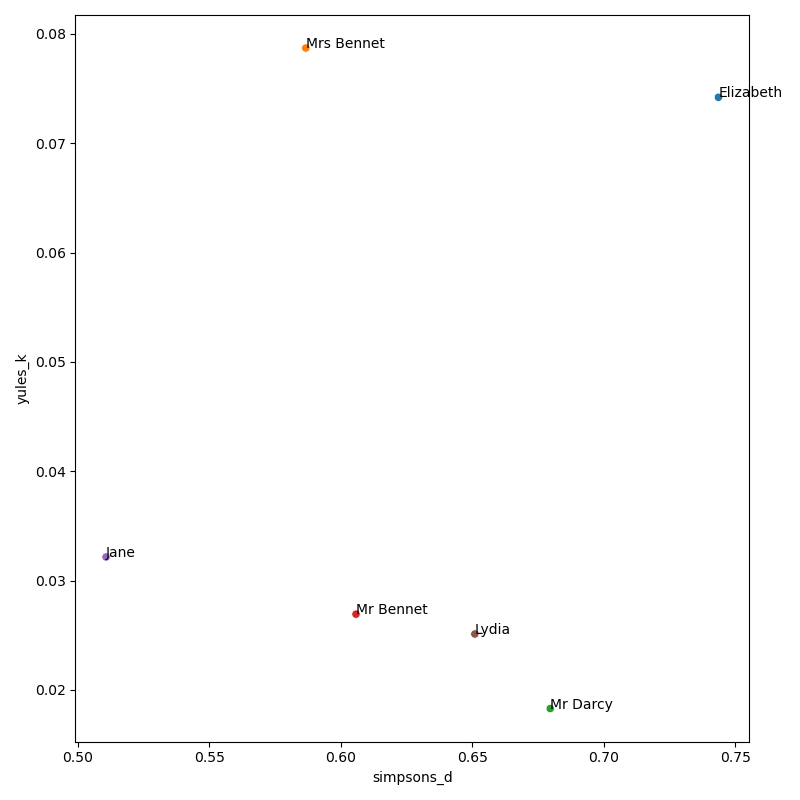
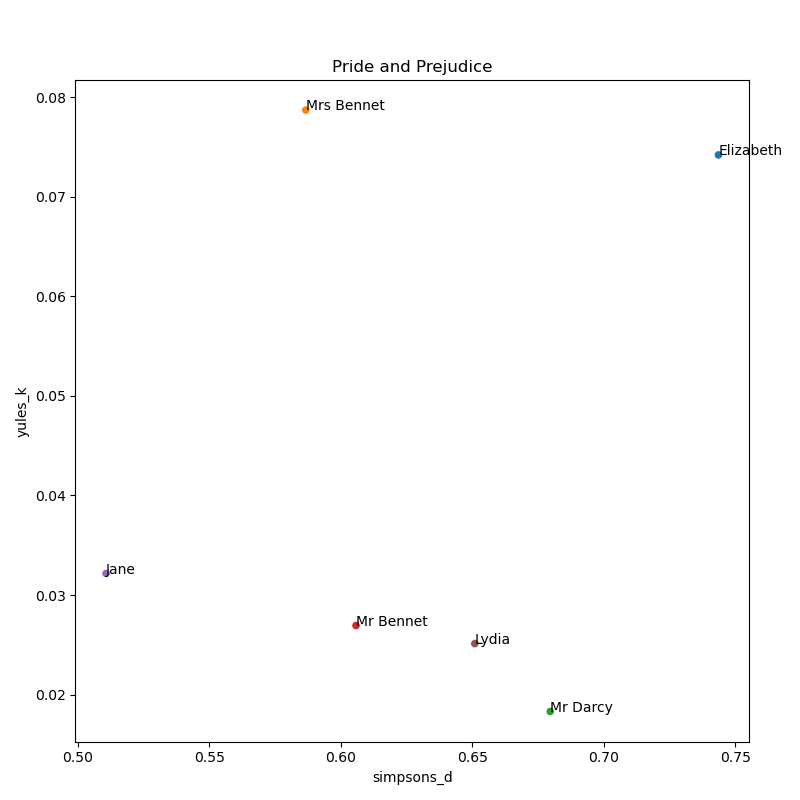
Updated visuals

diff --git a/code/visualizations.py b/code/visualizations.py
@@ -42,4 +42,8 @@ with warnings.catch_warnings():
         #explicitly remove the legend
         plt.legend().remove()
         plt.tight_layout()
+        #add the media as the title 
+        plt.title(media)
+        #add som extra space to the top of the plot to ensure the title is not cut off
+        plt.subplots_adjust(top=0.9)
         plt.savefig(f'../images/{media}_heuristics.png')
